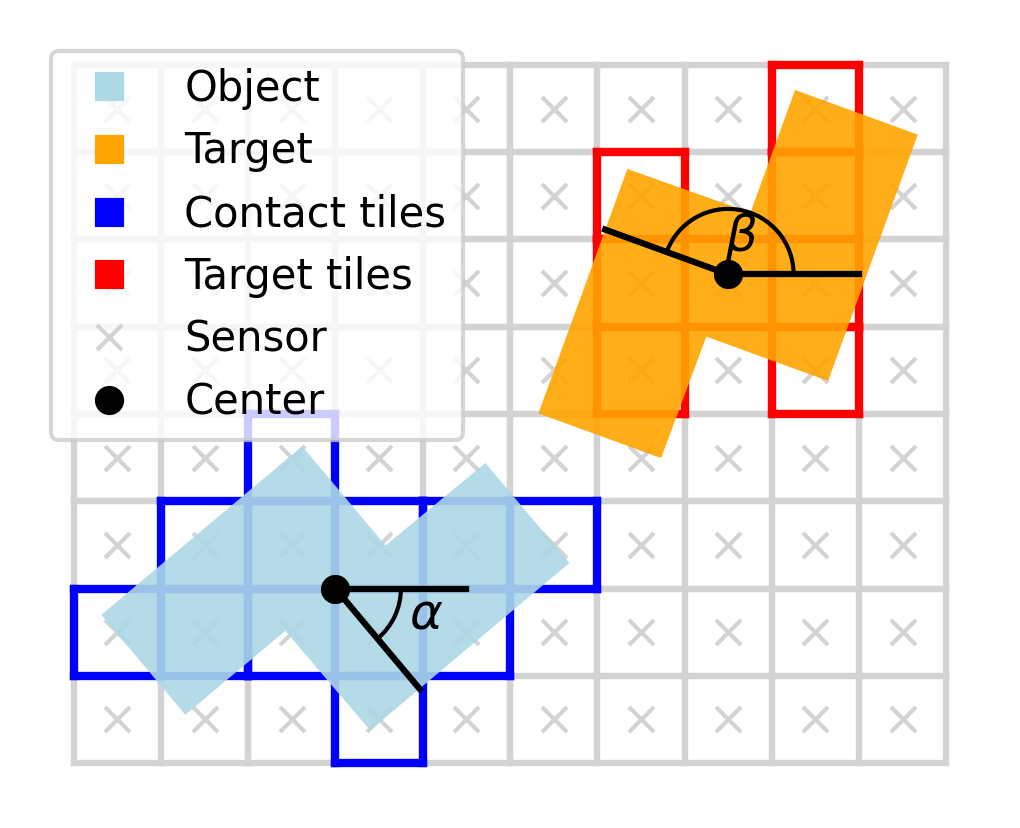
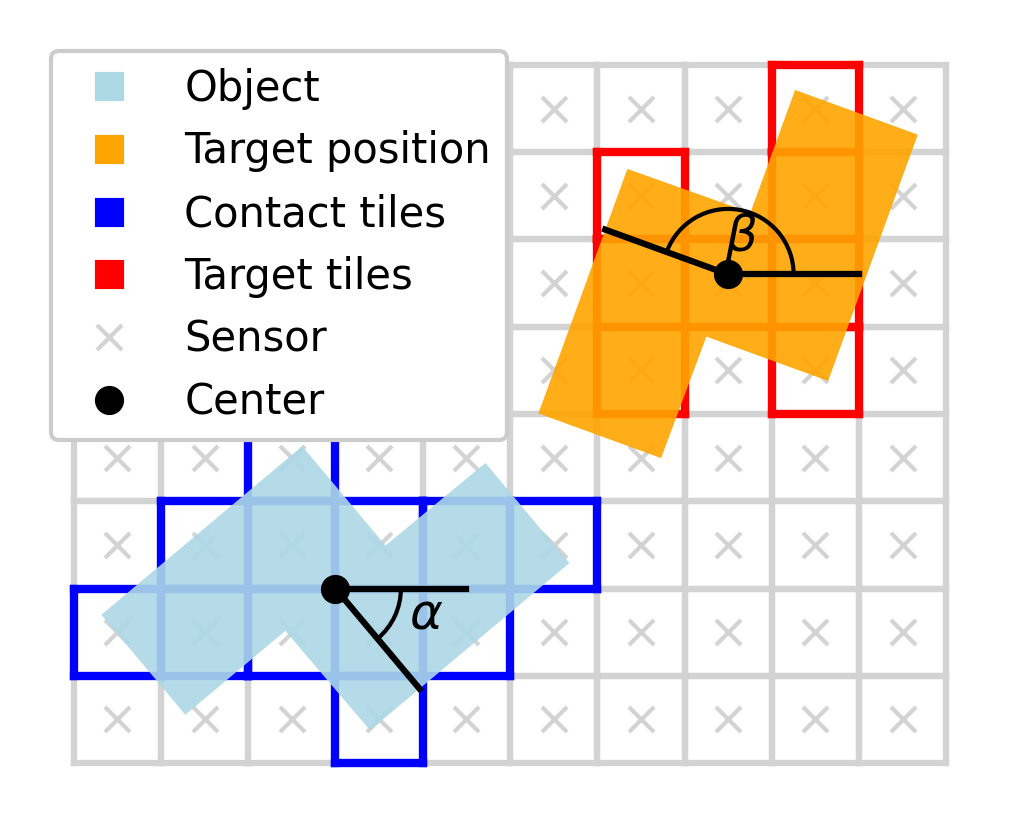
uff

Changed region(s): [[0.3039, 0.0604, 0.5167, 0.5435], [0.2431, 0.4831, 0.3343, 0.5435]]

diff --git a/Visuals/Figures_paper.py b/Visuals/Figures_paper.py
@@ -166,13 +166,12 @@ def contact_tiles(obj: Polygon, N: int, color: str = 'black'):
 
 
 class COLORS:
-    TETROMINO = 'lightblue'
-    TARGET = 'orange'
-    CONTACT = 'blue'
-    TARGET_TILE = 'red'
-    GRID = 'lightgray'
+    OBJECT =        '#add8e6' 
+    TARGET =        '#ffa500'
+    CONTACT_TILE =  '#0000ff'
+    TARGET_TILE =   '#ff0000'
+    GRID =          '#d3d3d3'
     FONT_SIZE = 12
-
 
 def figure_environment():
 
@@ -184,7 +183,7 @@ def figure_environment():
     resolution = 1.5
 
     symbol = 'S'
-    tetrom = Tetromino(symbol, resolution, COLORS.TETROMINO)
+    tetrom = Tetromino(symbol, resolution, COLORS.OBJECT)
     target = Tetromino(symbol, resolution, COLORS.TARGET)
     tetrom.rotate(-50)
     tetrom.move_to(N*0.3, M*0.25)
@@ -193,22 +192,25 @@ def figure_environment():
 
     target.move_to(N*0.75, M*0.7)
     target.plot(text='$\\beta$', dtx=-0.1, dty=-0.1)
-    contact_tiles(tetrom.polygon, N, COLORS.CONTACT)
+    contact_tiles(tetrom.polygon, N, COLORS.CONTACT_TILE)
     contact_tiles(target.polygon, N, COLORS.TARGET_TILE)
 
-    plt.plot([], [], 's', label="Object", color=COLORS.TETROMINO)
-    plt.plot([], [], 's', label="Target", color=COLORS.TARGET)
-    plt.plot([], [], 's', label="Contact tiles", color=COLORS.CONTACT)
+    plt.plot([], [], 's', label="Object", color=COLORS.OBJECT)
+    plt.plot([], [], 's', label="Target position", color=COLORS.TARGET)
+    plt.plot([], [], 's', label="Contact tiles", color=COLORS.CONTACT_TILE)
     plt.plot([], [], 's', label="Target tiles", color=COLORS.TARGET_TILE)
     plt.plot([], [], 'x', label="Sensor", color=COLORS.GRID)
     plt.plot([], [], 'o', label="Center", color='black')
 
 
     plt.legend()
+    plt.legend(framealpha=1)
     plt.axis('off')
     plt.gca().set_aspect('equal', adjustable='box')
     plt.tight_layout()
+    #remove empty padding around the image
     plt.savefig('Images/Paper/Environment.png', dpi=300, bbox_inches='tight')
+    
     # plt.show()
 
 
@@ -259,7 +261,7 @@ def figure_trajectory():
                          TILE_SIZE, target_center[0][1]/TILE_SIZE)
         target_angle = float(data['target_angle'].to_numpy()[0])
 
-        tetrom = Tetromino(symbol, resolution, COLORS.TETROMINO)
+        tetrom = Tetromino(symbol, resolution, COLORS.OBJECT)
         target = Tetromino(symbol, resolution, COLORS.TARGET)
 
         tetrom.rotate(object_angle[0])
@@ -400,11 +402,11 @@ def figure_rotation_vector():
     resolution = 1
     t_center = (1.6, 1.6)
     symbol = 'T'
-    tetrom = Tetromino(symbol, resolution, COLORS.TETROMINO)
+    tetrom = Tetromino(symbol, resolution, COLORS.OBJECT)
     tetrom.rotate(35)
     tetrom.move_to(t_center[0], t_center[1])
     tetrom.plot(text='$\\alpha$')
-    contact_tiles(tetrom.polygon, N, COLORS.CONTACT)
+    contact_tiles(tetrom.polygon, N, COLORS.CONTACT_TILE)
 
     example_tile = (2.5, 0.5)
     r = (t_center[0] - example_tile[0], t_center[1] - example_tile[1])
@@ -435,11 +437,11 @@ def figure_rotation_vector():
 def figure_resolution():
 
     N = 6
-    t = Tetromino('T', 2, COLORS.TETROMINO)
-    l = Tetromino('J', 1, COLORS.TETROMINO)
-    s = Tetromino('Z', 0.75, COLORS.TETROMINO)
-    i = Tetromino('I', 0.25, COLORS.TETROMINO)
-    o = Tetromino('O', 0.5, COLORS.TETROMINO)
+    t = Tetromino('T', 2, COLORS.OBJECT)
+    l = Tetromino('J', 1, COLORS.OBJECT)
+    s = Tetromino('Z', 0.75, COLORS.OBJECT)
+    i = Tetromino('I', 0.25, COLORS.OBJECT)
+    o = Tetromino('O', 0.5, COLORS.OBJECT)
 
     xl = l.polygon.centroid.x
     yl = l.polygon.centroid.y
@@ -462,11 +464,11 @@ def figure_resolution():
     o.plot(hide_angle=True)
 
     draw_grid(N)
-    contact_tiles(t.polygon, N, COLORS.CONTACT)
-    contact_tiles(l.polygon, N, COLORS.CONTACT)
-    contact_tiles(s.polygon, N, COLORS.CONTACT)
-    contact_tiles(i.polygon, N, COLORS.CONTACT)
-    contact_tiles(o.polygon, N, COLORS.CONTACT)
+    contact_tiles(t.polygon, N, COLORS.CONTACT_TILE)
+    contact_tiles(l.polygon, N, COLORS.CONTACT_TILE)
+    contact_tiles(s.polygon, N, COLORS.CONTACT_TILE)
+    contact_tiles(i.polygon, N, COLORS.CONTACT_TILE)
+    contact_tiles(o.polygon, N, COLORS.CONTACT_TILE)
 
     s.plot_symbol_resolution('$Shape = S$' + '\n' + '$Res = 0.75$', -0.6, 0.2)
     t.plot_symbol_resolution('$Shape = T$' + '\n' + '$Res = 2$', -0.6, 0.2)
@@ -672,7 +674,7 @@ def figure_experiment_resolution():
     side = 6
     fig, ax1 = plt.subplots(figsize=(side, side/3))
     colors = plt.cm.plasma(np.linspace(0, 1, 3))
-
+    colors = [COLORS.CONTACT_TILE, COLORS.TARGET_TILE]
     ax1.plot(angle_res, angle_means, marker='o', c=colors[0])
     fillup = [m - s for m, s in zip(angle_means, angle_std_devs)]
     filldown = [m + s for m, s in zip(angle_means, angle_std_devs)]
@@ -782,5 +784,5 @@ if __name__ == '__main__':
     #figure_rotation_vector()
     #figure_resolution()
     
-    #figure_experiment_resolution()
-    figure_experiment_faulty()
+    figure_experiment_resolution()
+    #figure_experiment_faulty()
